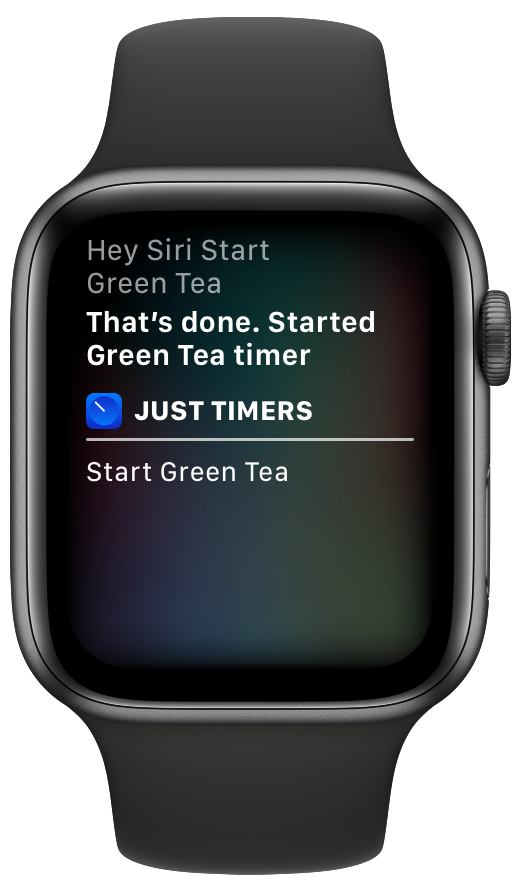
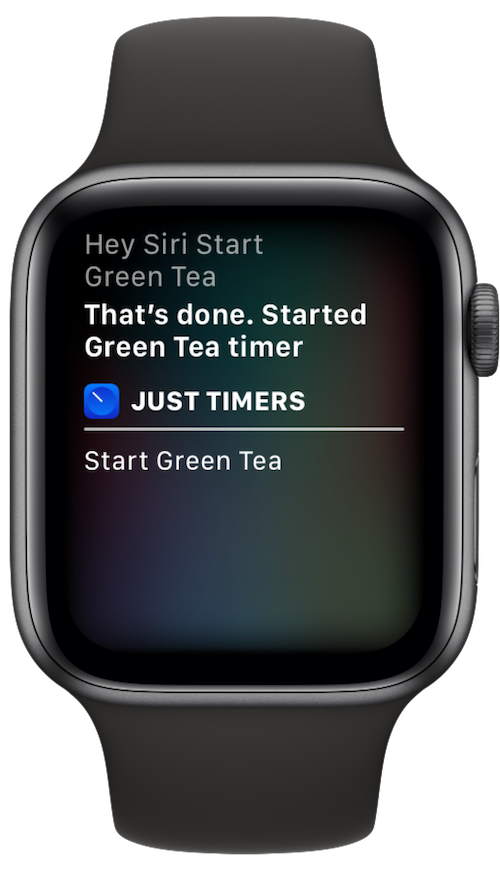
updated device screenshots

diff --git a/index.html b/index.html
@@ -61,7 +61,7 @@ title: Just Timers
         </div>
         <div class="row align-items-center padding-top-60">
             <div class="col-sm-5 px-5 pl-sm-0 pr-sm-5">
-                <img src="/images/device/watch.png" srcset="/images/device/watch@3x.png 3x, /images/device/watch@2x.png 2x, /images/device/watch.png 1x" class="screenshot" alt="iPhone">
+                <img src="/images/device/watch.png" srcset="/images/device/watch@3x.png 3x, /images/device/watch@2x.png 2x, /images/device/watch.png 1x" class="screenshot" alt="iPhone" style="width:300px">
             </div>
             <div class="col-sm-7 excerpt">
                 <h1>Apple Watch</h1>
